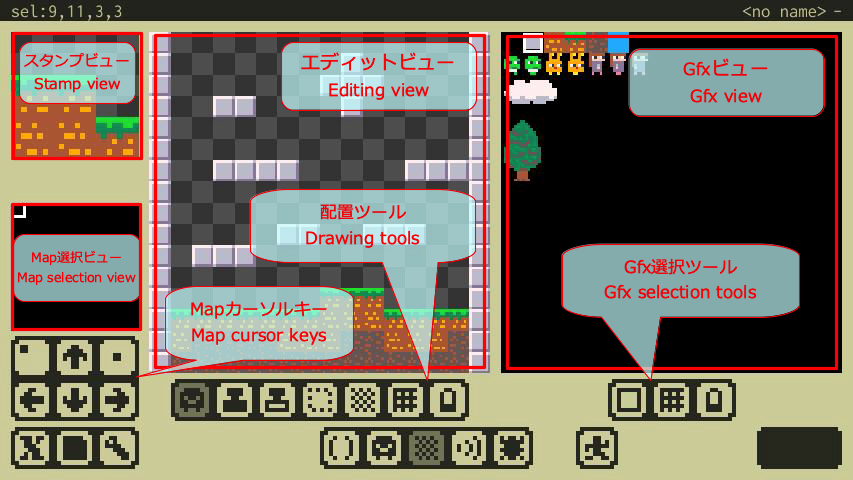
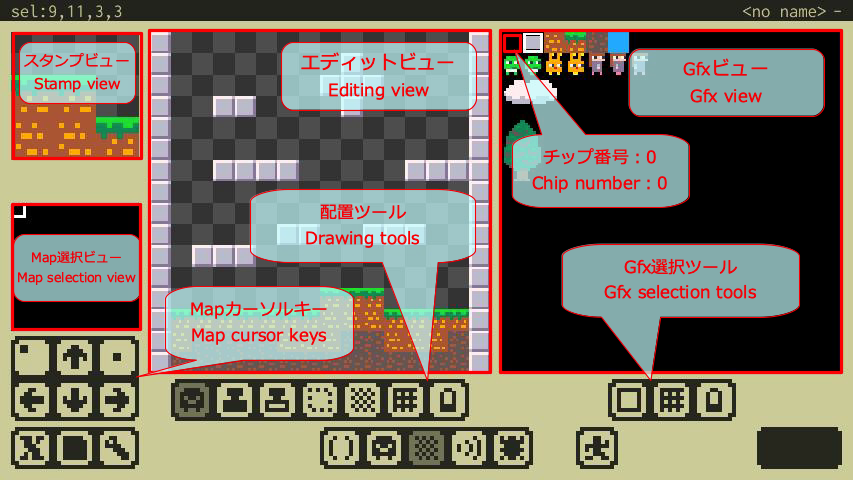
Mapのチップ0番が描画されない仕様についての説明を追加

Changed region(s): [[0.1524, 0.0312, 1.0, 0.7812]]

diff --git a/docs/manual.md b/docs/manual.md
@@ -135,6 +135,7 @@
 
 - **エディットビュー**ではMap選択ビューで選択されたエリアをエディットします。
 - **Gfxビュー**ではエディットビューに設定するチップ矩形を選択します。
+- **チップ番号：0**のチップはMapエディタおよび実際のマップ描画において、描画されないチップ（抜きのチップ）として機能します。スプライトとしては他の領域と区別なく描画されます。
 - **スタンプビュー**にはキャプチャされたスタンプデータが表示されます。
 - **Map選択ビュー**ではエディットするMapエリアをタッチで選択します。
 - **Mapカーソルキー**はMap選択ビューの選択矩形を操作します。
